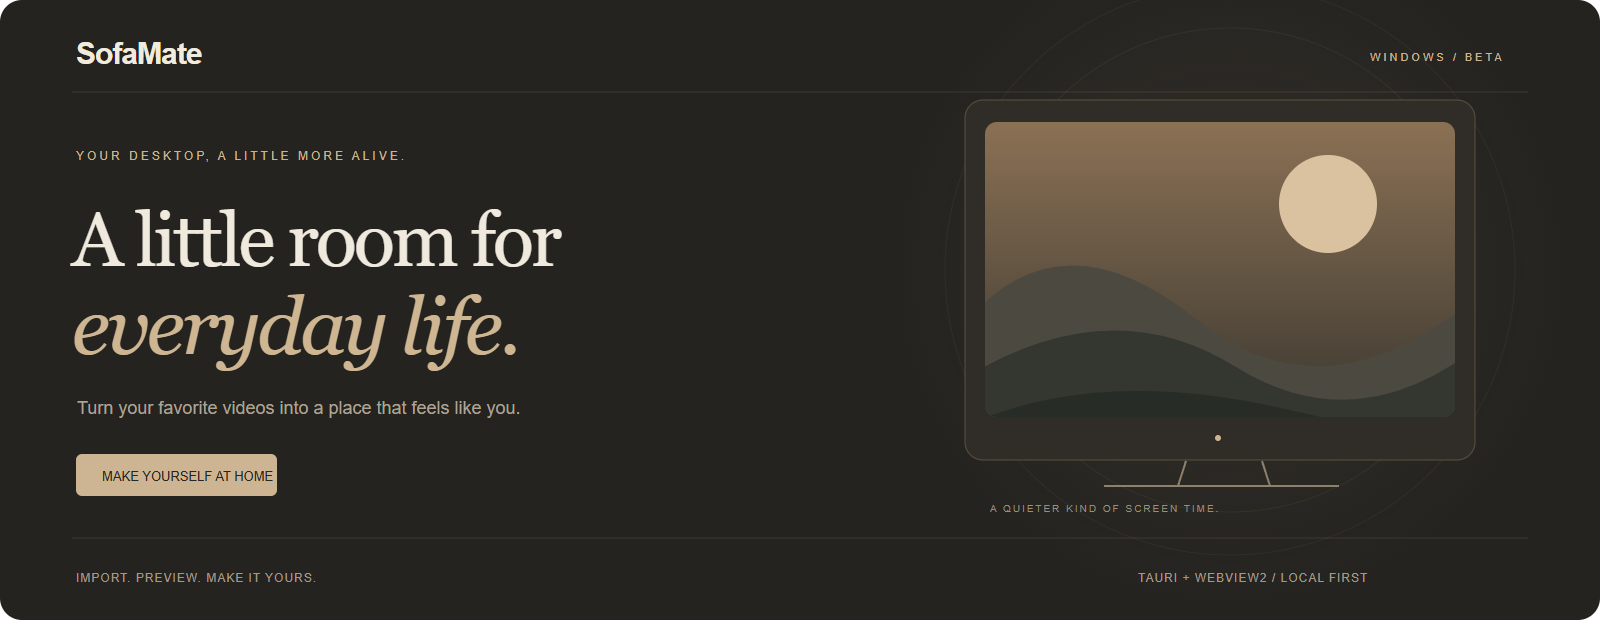
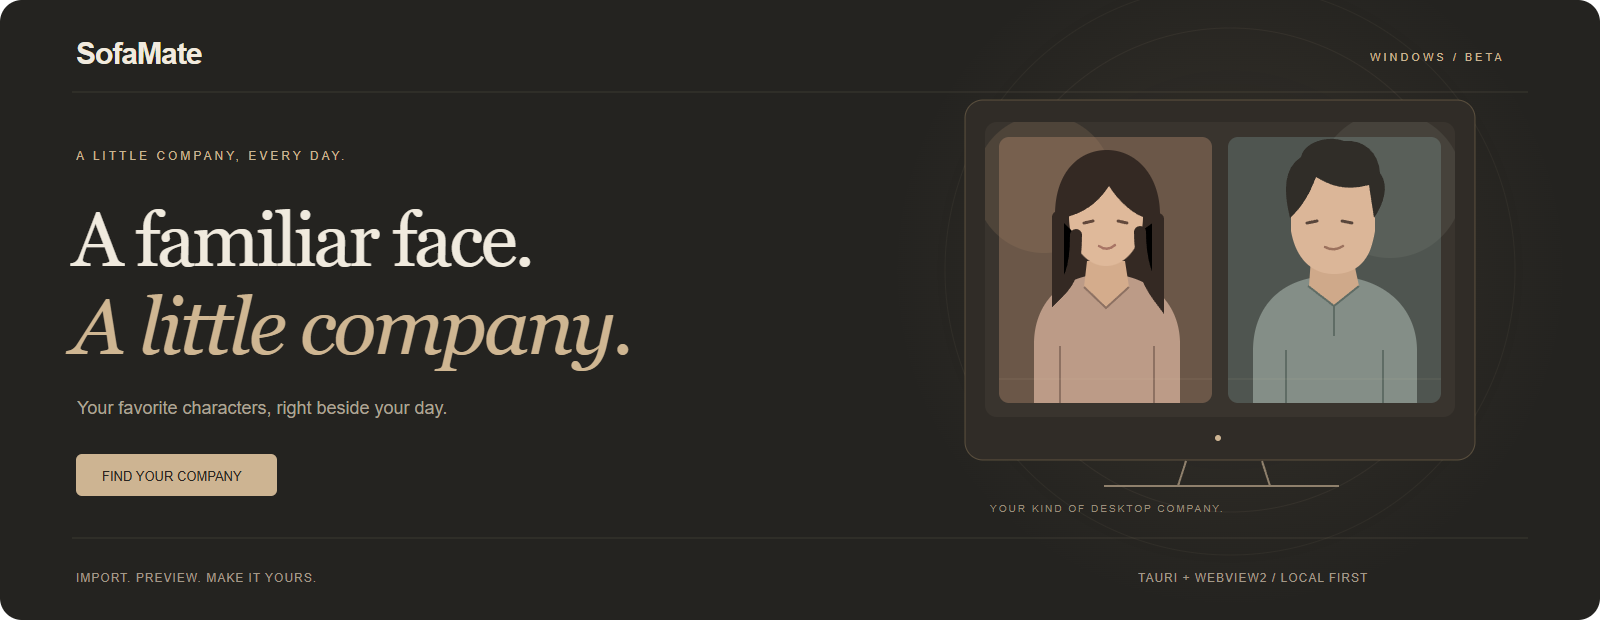
Center SofaMate on companionship and polish sign-in experience

diff --git a/site/index.html b/site/index.html
@@ -1,14 +1,14 @@
 <!doctype html>
 <html lang="zh-CN">
-<head><meta charset="utf-8"><meta name="viewport" content="width=device-width,initial-scale=1"><title>SofaMate — 让桌面，慢下来。</title><meta name="description" content="把喜欢的视频变成 Windows 动态壁纸。在安静、轻巧的 SofaMate 里预览、收藏，分享属于你的日常。"><meta property="og:title" content="SofaMate — A little room for everyday life."><meta property="og:description" content="轻巧的 Windows 视频壁纸客户端。导入、预览、分享，给桌面留一点生活。"><meta property="og:image" content="https://sofamate.aveniqa.com/assets/social-card.png"><meta name="theme-color" content="#22211f"><link rel="icon" href="/assets/icon.png"><link rel="stylesheet" href="/style.css"><script defer src="/app.js"></script></head>
+<head><meta charset="utf-8"><meta name="viewport" content="width=device-width,initial-scale=1"><title>SofaMate — 打开桌面，就有陪伴。</title><meta name="description" content="把喜欢的角色留在 Windows 桌面。导入人物视频，陪你工作、学习和独处的时光。SofaMate，让桌面多一份陪伴。"><meta property="og:title" content="SofaMate — A little company, every day."><meta property="og:description" content="喜欢的她，也可以是喜欢的他。把人物视频设为桌面壁纸，让独处的日常多一份陪伴。"><meta property="og:image" content="https://sofamate.aveniqa.com/assets/social-card.png?v=companionship"><meta name="theme-color" content="#22211f"><link rel="icon" href="/assets/icon.png"><link rel="stylesheet" href="/style.css"><script defer src="/app.js"></script></head>
 <body>
 <header class="site-header wrap"><a class="wordmark" href="/" aria-label="SofaMate 首页"><img src="/assets/icon.png" width="30" height="30" alt="">SofaMate<span class="beta">BETA</span></a><nav aria-label="主导航"><a href="/#experience">体验</a><a href="/market">分享市场</a><a href="https://github.com/UncleK/SofaMate" target="_blank" rel="noopener">GitHub ↗</a></nav><a class="nav-account" href="/login">登录 / 注册 <span>↗</span></a></header>
 <main>
-<section class="hero wrap"><div class="hero-copy"><p class="eyebrow"><span class="live-dot"></span> YOUR DESKTOP, A LITTLE MORE ALIVE.</p><h1>让桌面，<br><em>慢下来。</em></h1><p class="hero-description">一盏晚灯，一段日常，一帧喜欢的风景。<br>把视频留在桌面，让陪伴自然发生。</p><div class="hero-actions"><a class="button primary" href="https://github.com/UncleK/SofaMate/releases/latest/download/SofaMate-Windows-x64.zip"><svg viewBox="0 0 24 24" aria-hidden="true"><path d="M12 3v12m-5-5 5 5 5-5M4 16v5h16v-5"/></svg>下载 Windows 版 <span>↓</span></a><a class="text-link" href="#experience">看看它的样子 <span>↘</span></a></div><p class="hero-footnote">Windows 10 / 11 · 免安装 · 默认静音</p></div><div class="hero-visual"><div class="orbit orbit-one"></div><div class="orbit orbit-two"></div><div class="hero-caption"><span>01 / A QUIET EVENING</span><span>留一点时间，给生活。</span></div><figure class="app-frame"><img src="/assets/client-featured.png" width="1280" height="800" alt="SofaMate 精选主题的真实客户端界面，展示夜间客厅九宫格预览" fetchpriority="high"></figure><div class="visual-bottom"><span class="tiny-cross">＋</span><span>真实客户端截图 · 柔和深色</span><span class="frame-number">SOFA / MATE</span></div></div></section>
-<section class="facts wrap" aria-label="产品特点"><div><span>01</span><strong>自己的视频，自己的桌面。</strong><p>导入 MP4，即可设为动态壁纸</p></div><div><span>02</span><strong>先看九格，再留下一段。</strong><p>客户端自动生成九宫格预览</p></div><div><span>03</span><strong>喜欢的画面，可以分享。</strong><p>登录发布，下载后离线使用</p></div></section>
-<section class="experience wrap" id="experience"><div class="section-heading"><p class="eyebrow">A LITTLE LESS NOISE.</p><h2>简单的操作。<br><span>刚刚好的陪伴。</span></h2><p>播放留在桌面，选择留在手边。<br>把复杂的事情，留给 SofaMate。</p></div><div class="feature-grid"><article class="feature feature-wide"><div class="feature-top"><span class="feature-index">01 / YOUR COLLECTION</span><h3>把喜欢的画面，收在一起。</h3><p>本机视频与已安装主题，一眼就能找到。搜索、左右切换，再决定今天的桌面。</p></div><div class="screenshot-mat"><img src="/assets/client-library.png" width="1280" height="800" loading="lazy" alt="我的壁纸实机界面，可搜索、浏览与预览本机视频"></div></article><article class="feature feature-control"><span class="feature-index">02 / UNDER YOUR CONTROL</span><h3>安静开始。<br>随时停下。</h3><p>窗口里的预览与桌面播放各自独立。暂停稍歇，停止则释放桌面播放器资源。</p><div class="control-mat"><img src="/assets/client-controls.png" width="472" height="352" loading="lazy" alt="壁纸控制菜单，包含暂停、停止与音量"></div><div class="quiet-note"><span>↘</span><p>关闭面板，壁纸继续。<br>双击托盘，随时回来。</p></div></article></div></section>
-<section class="community-story wrap"><div class="community-title"><p class="eyebrow">GOOD MOMENTS TRAVEL.</p><h2>你的日常，<br>也许是别人的<span>心动。</span></h2><p>九宫格在你的电脑上生成。只有点击分享，<br>视频才会上传到社区。每一份分享都有自己的主人。</p><a class="text-link" href="/market">去分享市场逛逛 <span>↗</span></a></div><div class="flow-art"><img src="/assets/sharing-flow.svg" width="680" height="400" alt="从本机视频到九宫格预览，再分享到社区的流程插画" loading="lazy"></div></section>
-<section class="details-section wrap"><div><p class="eyebrow">SMALL BY DESIGN.</p><h2>轻一点，<br>陪伴久一点。</h2></div><div class="detail-list"><div><h3>不用为壁纸，再装一个大家伙。</h3><p>Tauri + 系统 WebView2。视频预览使用系统解码能力，客户端不捆绑 FFmpeg。</p></div><div><h3>离线，也有喜欢的画面。</h3><p>本机导入不需要账号。下载完成后，桌面播放不依赖服务器。</p></div><div><h3>用熟悉的语言，开始。</h3><p>客户端支持简体中文、English、日本語。邮箱验证码、GitHub 或 Google 均可登录。</p></div></div></section>
-<section class="download-section wrap" id="download"><p class="eyebrow">MAKE YOURSELF AT HOME.</p><h2>给桌面，<em>留一点生活。</em></h2><p>准备好一段喜欢的视频。剩下的，交给 SofaMate。</p><a class="button primary" href="https://github.com/UncleK/SofaMate/releases/latest/download/SofaMate-Windows-x64.zip">下载 SofaMate <span>↓</span></a><p class="download-note">Windows x64 · 公开测试版 · 需要 WebView2 Runtime<br>支持 H.264 / AAC MP4，单视频最大 1 GiB。当前支持单主屏。</p></section>
-</main><footer class="site-footer wrap"><a class="wordmark" href="/">SofaMate</a><span>A little room for everyday life.</span><div><a href="/privacy">隐私说明</a><a href="https://github.com/UncleK/SofaMate/issues">反馈</a><a href="https://github.com/UncleK/SofaMate">GitHub ↗</a></div></footer>
+<section class="hero wrap"><div class="hero-copy"><p class="eyebrow"><span class="live-dot"></span> A LITTLE COMPANY, EVERY DAY.</p><h1>打开桌面，<br><em>就有陪伴。</em></h1><p class="hero-description">把喜欢的身影留在桌面。<br>工作、学习，或一个人待着时，多一份陪伴。</p><div class="hero-actions"><a class="button primary" href="https://github.com/UncleK/SofaMate/releases/latest/download/SofaMate-Windows-x64.zip"><svg viewBox="0 0 24 24" aria-hidden="true"><path d="M12 3v12m-5-5 5 5 5-5M4 16v5h16v-5"/></svg>下载 Windows 版 <span>↓</span></a><a class="text-link" href="#experience">看看它的样子 <span>↘</span></a></div><p class="hero-footnote">Windows 10 / 11 · 免安装 · 默认静音</p></div><div class="hero-visual"><div class="orbit orbit-one"></div><div class="orbit orbit-two"></div><div class="hero-caption"><span>01 / SOMEONE BY YOUR SIDE</span><span>喜欢的身影，就在身边。</span></div><figure class="app-frame"><img src="/assets/client-featured.png" width="1280" height="800" alt="SofaMate 精选主题的真实客户端界面，展示夜间客厅九宫格预览" fetchpriority="high"></figure><div class="visual-bottom"><span class="tiny-cross">＋</span><span>真实客户端截图 · 柔和深色</span><span class="frame-number">SOFA / MATE</span></div></div></section>
+<section class="facts wrap" aria-label="产品特点"><div><span>01</span><strong>喜欢的角色，陪在桌面。</strong><p>导入 MP4，即可设为动态壁纸</p></div><div><span>02</span><strong>每一个瞬间，都想多看一眼。</strong><p>客户端自动生成九宫格预览</p></div><div><span>03</span><strong>把喜欢，也分享给别人。</strong><p>登录发布，下载后离线使用</p></div></section>
+<section class="experience wrap" id="experience"><div class="section-heading"><p class="eyebrow">YOUR KIND OF COMPANY.</p><h2>一个人，也可以<br><span>有陪伴的感觉。</span></h2><p>喜欢她的温柔，也可以喜欢他的笑容。<br>选择让你心动的角色，陪你度过自己的时间。</p></div><div class="feature-grid"><article class="feature feature-wide"><div class="feature-top"><span class="feature-index">01 / YOUR COLLECTION</span><h3>今天想见谁，由你决定。</h3><p>把喜欢的人物视频收在一起。搜索、左右切换，找到此刻想要的陪伴。</p></div><div class="screenshot-mat"><img src="/assets/client-library.png" width="1280" height="800" loading="lazy" alt="我的壁纸实机界面，可搜索、浏览与预览本机视频"></div></article><article class="feature feature-control"><span class="feature-index">02 / UNDER YOUR CONTROL</span><h3>陪在身边。<br>由你安排。</h3><p>先在窗口里看看，再把喜欢的角色设为壁纸。想暂停、继续或结束陪伴，随时都由你决定。</p><div class="control-mat"><img src="/assets/client-controls.png" width="472" height="352" loading="lazy" alt="壁纸控制菜单，包含暂停、停止与音量"></div><div class="quiet-note"><span>↘</span><p>关闭面板，壁纸继续。<br>双击托盘，随时回来。</p></div></article></div></section>
+<section class="community-story wrap"><div class="community-title"><p class="eyebrow">FAVORITES WORTH SHARING.</p><h2>你的喜欢，<br>也许是别人的<span>心动。</span></h2><p>分享你创作的人物视频，发现更多喜欢的角色。<br>预览九宫格，下载到本机，把这份陪伴留在桌面。</p><a class="text-link" href="/market">去分享市场逛逛 <span>↗</span></a></div><div class="flow-art"><img src="/assets/sharing-flow.svg?v=companionship" width="680" height="400" alt="从本机视频到九宫格预览，再分享到社区的流程插画" loading="lazy"></div></section>
+<section class="details-section wrap"><div><p class="eyebrow">SMALL BY DESIGN.</p><h2>轻巧一点，<br>陪你久一点。</h2></div><div class="detail-list"><div><h3>小小的客户端，装下你的喜欢。</h3><p>下载包不到 2 MB，免安装即可使用。九宫格在本机生成，把更多空间留给喜欢的视频。</p></div><div><h3>不联网，陪伴也在。</h3><p>本机导入不需要账号。下载完成后，桌面播放不依赖服务器。</p></div><div><h3>用熟悉的语言，遇见喜欢。</h3><p>客户端支持简体中文、English、日本語。邮箱验证码、GitHub 或 Google 均可登录。</p></div></div></section>
+<section class="download-section wrap" id="download"><p class="eyebrow">BRING YOUR FAVORITE FACE HOME.</p><h2>让喜欢的身影，<em>出现在你的桌面。</em></h2><p>从一段喜欢的人物视频开始，让独处的时光多一份陪伴。</p><a class="button primary" href="https://github.com/UncleK/SofaMate/releases/latest/download/SofaMate-Windows-x64.zip">下载 SofaMate <span>↓</span></a><p class="download-note">Windows x64 · 公开测试版 · 需要 WebView2 Runtime<br>支持 H.264 / AAC MP4，单视频最大 1 GiB。当前支持单主屏。</p></section>
+</main><footer class="site-footer wrap"><a class="wordmark" href="/">SofaMate</a><span>A little company, every day.</span><div><a href="/privacy">隐私说明</a><a href="https://github.com/UncleK/SofaMate/issues">反馈</a><a href="https://github.com/UncleK/SofaMate">GitHub ↗</a></div></footer>
 </body></html>

diff --git a/site/login.html b/site/login.html
@@ -1,1 +1,1 @@
-<!doctype html><html lang="zh-CN"><head><meta charset="utf-8"><meta name="viewport" content="width=device-width,initial-scale=1"><title>登录 · SofaMate</title><meta name="robots" content="noindex"><meta name="theme-color" content="#22211f"><link rel="icon" href="/assets/icon.png"><link rel="stylesheet" href="/style.css"><script defer src="/app.js"></script></head><body><header class="site-header wrap"><a class="wordmark" href="/"><img src="/assets/icon.png" width="30" height="30" alt="">SofaMate<span class="beta">BETA</span></a><nav><a href="/market">分享市场</a><a href="https://github.com/UncleK/SofaMate">GitHub ↗</a></nav><a class="nav-account" href="/">返回首页 ↗</a></header><main class="subpage wrap"><div class="auth-layout"><div class="auth-intro"><p class="eyebrow">A PLACE FOR YOUR MOMENTS.</p><h1>喜欢的画面，<br><span>从这里分享。</span></h1><p>登录后发布和管理你的壁纸。<br>浏览、下载和本机播放，无需登录。</p><div class="auth-decoration"></div><p>邮箱验证码 / GitHub / Google<br>没有密码负担，也没有复杂的开始。</p></div><section class="auth-card" aria-labelledby="auth-title"><h2 id="auth-title">欢迎来到 SofaMate</h2><div id="sign-in"><p>首次验证邮箱将自动创建账号。</p><div class="oauth-buttons"><a class="button" id="github-login" href="/v1/auth/oauth/github/start"><span aria-hidden="true">⌘</span>GitHub</a><a class="button" id="google-login" href="/v1/auth/oauth/google/start"><strong aria-hidden="true">G</strong>Google</a></div><div class="divider">或使用邮箱验证码</div><form id="email-form"><label>邮箱地址<input id="email" type="email" maxlength="254" required autocomplete="email" placeholder="you@example.com"></label><label>公开昵称<input id="name" maxlength="40" autocomplete="nickname" placeholder="你想被怎样称呼" required></label><button class="button primary" id="send-code">获取验证码 <span>→</span></button></form><form id="code-form" hidden><label>6 位验证码<input id="code" type="text" inputmode="numeric" pattern="[0-9]{6}" minlength="6" maxlength="6" required autocomplete="one-time-code" placeholder="000000"></label><button class="button primary">验证并继续 <span>→</span></button><button class="auth-secondary" type="button" id="resend-code">重新发送</button></form><p>继续即表示你了解我们的<a href="/privacy">隐私说明</a>。<br>我们仅用邮箱完成身份验证，不发送营销邮件。</p></div><div id="signed-in" hidden><p class="auth-user" id="user-name"></p><p id="user-email"></p><div id="pairing" hidden><p>请核对客户端显示的配对码：</p><div class="auth-code" id="pair-code"></div><button class="button primary" id="approve-desktop">连接 SofaMate 客户端</button><p>仅连接你自己刚刚打开的客户端。</p></div><div id="account-actions"><div class="account-links"><a id="link-github" href="/v1/auth/oauth/github/start?link=1">绑定 GitHub</a><a id="link-google" href="/v1/auth/oauth/google/start?link=1">绑定 Google</a></div><a class="button primary" href="/market">浏览分享市场 ↗</a></div><button class="auth-secondary" id="sign-out">退出登录</button></div><p class="auth-status" id="auth-status" role="status" aria-live="polite"></p></section></div></main><footer class="site-footer wrap"><a class="wordmark" href="/">SofaMate</a><span>A little room for everyday life.</span><div><a href="/privacy">隐私说明</a><a href="https://github.com/UncleK/SofaMate/issues">反馈</a></div></footer></body></html>
+<!doctype html><html lang="zh-CN"><head><meta charset="utf-8"><meta name="viewport" content="width=device-width,initial-scale=1"><title>登录 · SofaMate</title><meta name="robots" content="noindex"><meta name="theme-color" content="#22211f"><link rel="icon" href="/assets/icon.png"><link rel="stylesheet" href="/style.css"><script defer src="/app.js"></script></head><body><header class="site-header wrap"><a class="wordmark" href="/"><img src="/assets/icon.png" width="30" height="30" alt="">SofaMate<span class="beta">BETA</span></a><nav><a href="/market">分享市场</a><a href="https://github.com/UncleK/SofaMate">GitHub ↗</a></nav><a class="nav-account" href="/">返回首页 ↗</a></header><main class="subpage wrap"><div class="auth-layout"><div class="auth-intro"><p class="eyebrow">SHARE YOUR KIND OF COMPANY.</p><h1>从这里，<br><span>遇见喜欢的陪伴。</span></h1><p>发现你喜欢的桌面角色，也分享你创作的陪伴视频。<br>浏览和下载无需登录；登录后即可发布和管理作品。</p><div class="auth-decoration"></div><p>邮箱验证码 / GitHub / Google<br>没有密码负担，也没有复杂的开始。</p></div><section class="auth-card" aria-labelledby="auth-title"><h2 id="auth-title">欢迎来到 SofaMate</h2><div id="sign-in"><p>首次验证邮箱将自动创建账号。</p><div class="oauth-buttons"><a class="button" id="github-login" href="/v1/auth/oauth/github/start"><img src="/assets/github-mark.svg" width="22" height="22" alt="">使用 GitHub 登录</a><a class="button" id="google-login" href="/v1/auth/oauth/google/start"><img src="/assets/google-mark.png" width="22" height="22" alt="">使用 Google 登录</a></div><div class="divider">或使用邮箱验证码</div><form id="email-form"><label>邮箱地址<input id="email" type="email" maxlength="254" required autocomplete="email" placeholder="you@example.com"></label><label>公开昵称<input id="name" maxlength="40" autocomplete="nickname" placeholder="你想被怎样称呼" required></label><button class="button primary" id="send-code">获取验证码 <span>→</span></button></form><form id="code-form" hidden><label>6 位验证码<input id="code" type="text" inputmode="numeric" pattern="[0-9]{6}" minlength="6" maxlength="6" required autocomplete="one-time-code" placeholder="000000"></label><button class="button primary">验证并继续 <span>→</span></button><div class="code-actions"><button class="auth-secondary" type="button" id="resend-code">重新发送</button><button class="auth-secondary" type="button" id="change-email">更换邮箱</button></div></form><p>继续即表示你了解我们的<a href="/privacy">隐私说明</a>。<br>我们仅用邮箱完成身份验证，不发送营销邮件。</p></div><div id="signed-in" hidden><p class="auth-user" id="user-name"></p><p id="user-email"></p><div id="pairing" hidden><p>请核对客户端显示的配对码：</p><div class="auth-code" id="pair-code"></div><button class="button primary" id="approve-desktop">连接 SofaMate 客户端</button><p>仅连接你自己刚刚打开的客户端。</p></div><div id="account-actions"><div class="account-links"><a id="link-github" href="/v1/auth/oauth/github/start?link=1">绑定 GitHub</a><a id="link-google" href="/v1/auth/oauth/google/start?link=1">绑定 Google</a></div><a class="button primary" href="/market">浏览分享市场 ↗</a></div><button class="auth-secondary" id="sign-out">退出登录</button></div><p class="auth-status" id="auth-status" role="status" aria-live="polite"></p></section></div></main><footer class="site-footer wrap"><a class="wordmark" href="/">SofaMate</a><span>A little company, every day.</span><div><a href="/privacy">隐私说明</a><a href="https://github.com/UncleK/SofaMate/issues">反馈</a></div></footer></body></html>

diff --git a/site/privacy.html b/site/privacy.html
@@ -1,1 +1,1 @@
-<!doctype html><html lang="zh-CN"><head><meta charset="utf-8"><meta name="viewport" content="width=device-width,initial-scale=1"><title>隐私说明 · SofaMate</title><link rel="icon" href="/assets/icon.png"><link rel="stylesheet" href="/style.css"></head><body><header class="site-header wrap"><a class="wordmark" href="/">SofaMate</a><a class="nav-account" href="/">返回首页 ↗</a></header><main class="subpage wrap prose"><p class="eyebrow">YOUR MOMENTS ARE YOURS.</p><h1>隐私与分享说明</h1><p>更新于 2026 年 9 月 20 日。本说明描述 SofaMate 公开测试版的实际数据处理方式。</p><h2>本机视频</h2><p>导入的视频复制到你的本机壁纸库。九宫格预览在你的电脑上生成。导入、预览和设为壁纸不会自动上传文件，只有你主动点击分享才会上传视频、预览图、标题和简介。</p><h2>账号与登录</h2><p>邮箱验证码用于注册和登录，通过 Resend 发送。我们保存邮箱、公开昵称、账号标识、登录方式及有期限的会话。验证码有次数限制，10 分钟失效。GitHub 和 Google 登录仅申请身份与邮箱信息，不申请仓库、云盘或其他业务数据权限。第三方身份不会仅因邮箱相同而自动合并；你可以先登录，再主动绑定。</p><h2>登录会话</h2><p>网站使用安全、HttpOnly 的必要登录 Cookie，不使用广告或跨站分析 Cookie。桌面客户端的登录凭据使用 Windows 用户级加密保存，不进入渲染页面。退出登录会撤销当前会话。</p><h2>公开分享</h2><p>发布后，昵称、标题、简介、视频和预览图可公开浏览与下载。邮箱不会显示在作品页面。请仅分享你有权公开分发的内容。你可以撤回自己的作品；撤回会关闭服务器上的公开访问，其他人已下载的副本仍由对方持有。</p><h2>容量与管理</h2><p>测试版限制单视频最大 1 GiB、每账号分享总容量 2 GiB（含预览预留空间），最多 50 条。未完成上传的草稿在过期后清理。管理员可下架作品、停用滥用账号。服务为运行和故障诊断保留必要的访问日志，不记录验证码、登录凭据或完整 OAuth 回调参数。</p><h2>联系我们</h2><p>功能问题、内容投诉或账号数据删除请求，请通过 <a href="https://github.com/UncleK/SofaMate/issues">GitHub Issues</a> 联系维护者。公开留言不要包含邮箱验证码、登录凭据或其他私人信息；涉及账号归属的请求需先验证身份。</p></main><footer class="site-footer wrap"><a class="wordmark" href="/">SofaMate</a><span>A little room for everyday life.</span></footer></body></html>
+<!doctype html><html lang="zh-CN"><head><meta charset="utf-8"><meta name="viewport" content="width=device-width,initial-scale=1"><title>隐私说明 · SofaMate</title><link rel="icon" href="/assets/icon.png"><link rel="stylesheet" href="/style.css"></head><body><header class="site-header wrap"><a class="wordmark" href="/">SofaMate</a><a class="nav-account" href="/">返回首页 ↗</a></header><main class="subpage wrap prose"><p class="eyebrow">YOUR MOMENTS ARE YOURS.</p><h1>隐私与分享说明</h1><p>更新于 2026 年 9 月 20 日。本说明描述 SofaMate 公开测试版的实际数据处理方式。</p><h2>本机视频</h2><p>导入的视频复制到你的本机壁纸库。九宫格预览在你的电脑上生成。导入、预览和设为壁纸不会自动上传文件，只有你主动点击分享才会上传视频、预览图、标题和简介。</p><h2>账号与登录</h2><p>邮箱验证码用于注册和登录，通过 Resend 发送。我们保存邮箱、公开昵称、账号标识、登录方式及有期限的会话。验证码有次数限制，10 分钟失效。GitHub 和 Google 登录仅申请身份与邮箱信息，不申请仓库、云盘或其他业务数据权限。第三方身份不会仅因邮箱相同而自动合并；你可以先登录，再主动绑定。</p><h2>登录会话</h2><p>网站使用安全、HttpOnly 的必要登录 Cookie，不使用广告或跨站分析 Cookie。桌面客户端的登录凭据使用 Windows 用户级加密保存，不进入渲染页面。退出登录会撤销当前会话。</p><h2>公开分享</h2><p>发布后，昵称、标题、简介、视频和预览图可公开浏览与下载。邮箱不会显示在作品页面。请仅分享你有权公开分发的内容。你可以撤回自己的作品；撤回会关闭服务器上的公开访问，其他人已下载的副本仍由对方持有。</p><h2>容量与管理</h2><p>测试版限制单视频最大 1 GiB、每账号分享总容量 2 GiB（含预览预留空间），最多 50 条。未完成上传的草稿在过期后清理。管理员可下架作品、停用滥用账号。服务为运行和故障诊断保留必要的访问日志，不记录验证码、登录凭据或完整 OAuth 回调参数。</p><h2>联系我们</h2><p>功能问题、内容投诉或账号数据删除请求，请通过 <a href="https://github.com/UncleK/SofaMate/issues">GitHub Issues</a> 联系维护者。公开留言不要包含邮箱验证码、登录凭据或其他私人信息；涉及账号归属的请求需先验证身份。</p></main><footer class="site-footer wrap"><a class="wordmark" href="/">SofaMate</a><span>A little company, every day.</span></footer></body></html>

diff --git a/site/app.js b/site/app.js
@@ -1,6 +1,7 @@
 const $ = id => document.getElementById(id);
 async function api(path, body) {
   const response = await fetch(path, { method: body === undefined ? 'GET' : 'POST', credentials: 'same-origin', headers: body === undefined ? {} : { 'Content-Type': 'application/json' }, body: body === undefined ? undefined : JSON.stringify(body), redirect: 'error' });
+  if (!response.headers.get('content-type')?.includes('application/json')) throw new Error(response.status === 429 ? '操作太频繁，请稍后再试。' : '服务暂时不可用，请稍后重试。');
   const value = await response.json();
   if (!response.ok) throw new Error(value.error || '暂时无法连接，请稍后重试。');
   return value;
@@ -13,13 +14,13 @@ if ($('email-form')) {
   const run = async fn => { try { await fn(); } catch (error) { status(error.message, true); } };
   function updateResend() { const seconds = Math.max(0, Math.ceil((resendAt - Date.now()) / 1000)); $('resend-code').disabled = seconds > 0; $('resend-code').textContent = seconds ? `${seconds} 秒后重新发送` : '重新发送'; }
   async function send() {
-    $('send-code').disabled = true; status('正在发送验证码…');
+    $('send-code').disabled = true; $('change-email').disabled = true; status('正在发送验证码…');
     try {
       const result = await api('/v1/auth/email/start', { email: $('email').value, name: $('name').value });
       challengeId = result.challengeId; resendAt = Date.now() + result.retryAfter * 1000;
       $('email-form').hidden = true; $('code-form').hidden = false; $('code').focus(); updateResend();
       status('验证码已发送，请查看邮箱。10 分钟内有效。');
-    } finally { $('send-code').disabled = false; }
+    } finally { $('send-code').disabled = false; $('change-email').disabled = false; }
   }
   async function showUser(user) {
     $('sign-in').hidden = true; $('signed-in').hidden = false;
@@ -32,11 +33,15 @@ if ($('email-form')) {
   }
   $('email-form').addEventListener('submit', event => { event.preventDefault(); void run(send); });
   $('resend-code').onclick = () => void run(send);
+  $('change-email').onclick = () => {
+    challengeId = ''; $('code').value = ''; $('code-form').hidden = true;
+    $('email-form').hidden = false; status(''); $('email').focus();
+  };
   setInterval(updateResend, 1000);
   $('code-form').addEventListener('submit', event => { event.preventDefault(); void run(async () => {
-    const button = $('code-form').querySelector('button'); button.disabled = true;
+    const button = $('code-form').querySelector('button'); button.disabled = true; $('change-email').disabled = true;
     try { const result = await api('/v1/auth/email/verify', { challengeId, code: $('code').value }); await showUser(result.user); }
-    finally { button.disabled = false; }
+    finally { button.disabled = false; $('change-email').disabled = false; }
   }); });
   $('approve-desktop').onclick = () => void run(async () => {
     $('approve-desktop').disabled = true;
@@ -78,10 +83,16 @@ if ($('market-grid')) {
       if (!more) $('market-grid').replaceChildren();
       data.items.forEach(item => $('market-grid').append(card(item))); next = data.nextOffset;
       $('market-more').hidden = next === null; $('market-empty').hidden = data.total > 0;
+      const searching = !!$('market-query').value.trim();
+      $('market-empty').querySelector('h2').textContent = searching ? '没有找到匹配的壁纸。' : '你喜欢的角色，等你来分享。';
+      $('market-empty').querySelector('p').textContent = searching ? '试试其他名字，或清空搜索看看全部作品。' : '在 SofaMate 中导入你创作的视频，登录后点击「分享」。你的作品会出现在这里。';
+      $('market-empty').querySelector('a').hidden = searching;
+      $('market-reset').hidden = !searching;
       $('market-status').textContent = data.total ? `${data.total} 段画面，等你带回桌面。` : '';
     } catch (error) { if (run === generation) $('market-status').textContent = error.message; }
   }
   $('market-search').onsubmit = event => { event.preventDefault(); void load(); };
   $('market-more').onclick = () => void load(true);
+  $('market-reset').onclick = () => { $('market-query').value = ''; void load(); };
   void load();
 }

diff --git a/site/market.html b/site/market.html
@@ -1,1 +1,1 @@
-<!doctype html><html lang="zh-CN"><head><meta charset="utf-8"><meta name="viewport" content="width=device-width,initial-scale=1"><title>分享市场 · SofaMate</title><meta name="description" content="发现社区分享的视频壁纸。九宫格预览，下载后离线使用。"><meta name="theme-color" content="#22211f"><link rel="icon" href="/assets/icon.png"><link rel="stylesheet" href="/style.css"><script defer src="/app.js"></script></head><body><header class="site-header wrap"><a class="wordmark" href="/"><img src="/assets/icon.png" width="30" height="30" alt="">SofaMate<span class="beta">BETA</span></a><nav><a href="/#experience">体验</a><a href="/market">分享市场</a><a href="https://github.com/UncleK/SofaMate">GitHub ↗</a></nav><a class="nav-account" href="/login">登录 / 注册 ↗</a></header><main class="subpage wrap"><div class="subpage-heading"><div><p class="eyebrow">GOOD MOMENTS, SHARED.</p><h1>发现一段，喜欢的画面。</h1><p class="subpage-lead">从别人的日常里，找到属于你的桌面。<br>免费浏览与下载，在客户端登录后分享。</p></div><form class="search-form" id="market-search"><input type="search" id="market-query" placeholder="搜索壁纸、作者" aria-label="搜索壁纸、作者" maxlength="100"><button class="button">搜索 ↗</button></form></div><p id="market-status" class="subpage-lead" role="status"></p><div class="market-grid" id="market-grid"></div><div class="market-empty" id="market-empty" hidden><h2>第一段喜欢的画面，等你来分享。</h2><p>在 SofaMate 中导入视频，登录后点击「分享」。<br>你的作品会出现在这里。</p><a class="text-link" href="/#download">下载客户端 ↗</a></div><button class="button" id="market-more" hidden>加载更多</button></main><footer class="site-footer wrap"><a class="wordmark" href="/">SofaMate</a><span>A little room for everyday life.</span><div><a href="/privacy">隐私说明</a><a href="https://github.com/UncleK/SofaMate/issues">反馈</a></div></footer></body></html>
+<!doctype html><html lang="zh-CN"><head><meta charset="utf-8"><meta name="viewport" content="width=device-width,initial-scale=1"><title>分享市场 · SofaMate</title><meta name="description" content="发现社区分享的人物视频壁纸，找到喜欢的桌面陪伴。九宫格预览，下载后离线使用。"><meta name="theme-color" content="#22211f"><link rel="icon" href="/assets/icon.png"><link rel="stylesheet" href="/style.css"><script defer src="/app.js"></script></head><body><header class="site-header wrap"><a class="wordmark" href="/"><img src="/assets/icon.png" width="30" height="30" alt="">SofaMate<span class="beta">BETA</span></a><nav><a href="/#experience">体验</a><a href="/market">分享市场</a><a href="https://github.com/UncleK/SofaMate">GitHub ↗</a></nav><a class="nav-account" href="/login">登录 / 注册 ↗</a></header><main class="subpage wrap"><div class="subpage-heading"><div><p class="eyebrow">FIND YOUR KIND OF COMPANY.</p><h1>遇见你喜欢的桌面陪伴。</h1><p class="subpage-lead">喜欢的她、心动的他，或让你感到亲切的角色。<br>免费浏览与下载，在客户端登录后分享。</p></div><form class="search-form" id="market-search"><input type="search" id="market-query" placeholder="搜索壁纸、作者" aria-label="搜索壁纸、作者" maxlength="100"><button class="button">搜索 ↗</button></form></div><p id="market-status" class="subpage-lead" role="status"></p><div class="market-grid" id="market-grid"></div><div class="market-empty" id="market-empty" hidden><h2>你喜欢的角色，等你来分享。</h2><p>在 SofaMate 中导入视频，登录后点击「分享」。<br>你的作品会出现在这里。</p><a class="text-link" href="/#download">下载客户端 ↗</a><button class="button" id="market-reset" hidden>清空搜索</button></div><button class="button" id="market-more" hidden>加载更多</button></main><footer class="site-footer wrap"><a class="wordmark" href="/">SofaMate</a><span>A little company, every day.</span><div><a href="/privacy">隐私说明</a><a href="https://github.com/UncleK/SofaMate/issues">反馈</a></div></footer></body></html>

diff --git a/site/style.css b/site/style.css
@@ -5,3 +5,6 @@
 @media(max-width:1100px){.wrap{padding-left:32px;padding-right:32px}.hero{gap:26px;min-height:550px;grid-template-columns:.9fr 1fr}.hero h1{font-size:62px}.hero-actions{gap:15px}.hero-caption span:last-child{display:none}.facts{gap:20px}.feature-grid{grid-template-columns:1.4fr 1fr}.feature-control{padding:25px}.control-mat{padding:25px 10px}.download-section{margin-left:32px;margin-right:32px}.auth-layout{gap:40px;grid-template-columns:1fr 410px}.auth-intro h1{font-size:42px}}
 @media(max-width:760px){.wrap{padding-left:23px;padding-right:23px}.site-header{height:80px;gap:12px}.wordmark{font-size:22px}.wordmark img{width:25px;height:25px}.beta{display:none}.site-header nav{gap:17px;font-size:11px}.site-header nav a:first-child{display:none}.nav-account{font-size:11px;gap:8px}.hero{display:block;padding-top:48px;padding-bottom:42px}.hero h1{font-size:66px}.hero-description{font-size:13px}.hero .eyebrow{font-size:9px}.hero-visual{padding-top:45px}.hero-caption span:last-child{display:block}.app-frame{transform:none}.facts{grid-template-columns:1fr;gap:26px;padding-top:28px;padding-bottom:28px}.facts>div{padding-left:36px}.facts p{margin-top:8px}.facts strong{font-size:14px}.experience{padding-top:70px;padding-bottom:60px}.section-heading{display:block;margin-bottom:27px}.section-heading h2,h2{font-size:31px}.section-heading>p:last-child{margin-top:20px}.feature-grid{grid-template-columns:1fr;gap:18px}.feature-top{padding:24px}.feature h3{font-size:22px}.screenshot-mat{padding:5px 20px 0}.feature-control{padding:25px}.control-mat{padding:25px 10px;max-width:270px;margin:auto}.feature-control h3 br{display:none}.quiet-note{padding-top:18px}.community-story{grid-template-columns:1fr;gap:25px;padding-bottom:55px}.community-story h2{font-size:32px}.flow-art{margin:0 -8px}.details-section{grid-template-columns:1fr;gap:35px;padding-top:50px;padding-bottom:55px}.details-section h2 br{display:none}.details-section h2{font-size:31px}.download-section{margin:0 20px 45px;padding:43px 22px}.download-section h2{font-size:30px}.download-section h2 em{display:block}.site-footer{flex-wrap:wrap;gap:20px;padding-top:23px}.site-footer>span{font-size:11px}.site-footer>div{width:100%;justify-content:space-between}.subpage{padding-top:35px;padding-bottom:65px}.subpage h1{font-size:36px}.subpage-heading{display:block}.search-form{margin-top:25px}.search-form input{flex:1}.market-grid{grid-template-columns:1fr}.auth-layout{display:block;margin-top:10px}.auth-intro{margin-bottom:35px}.auth-intro h1{font-size:35px}.auth-intro h1 br{display:none}.auth-intro .eyebrow{margin-bottom:20px}.auth-decoration{display:none}.auth-card{padding:25px}.prose h2{font-size:21px}}
 @media(prefers-reduced-motion:reduce){html{scroll-behavior:auto}*{transition:none!important;animation:none!important}}
+
+.oauth-buttons{grid-template-columns:1fr;gap:10px}.oauth-buttons .button{height:46px;font-size:14px;font-weight:500;background:#131314;border-color:#8e918f;border-radius:6px;gap:12px}.oauth-buttons img{width:22px;height:22px;object-fit:contain;flex:none}.oauth-buttons .button:hover{background:#202022}.code-actions{display:flex;justify-content:space-between;gap:16px}.auth-intro h1{line-height:1.3}.auth-intro>p{max-width:460px}.auth-card label{font-size:13px}.auth-secondary:hover{color:var(--text)}
+@media(max-width:760px){.auth-intro h1 br{display:block}}

diff --git a/README.md b/README.md
@@ -1,16 +1,18 @@
-<p align="center"><img src="site/assets/readme-hero.svg" alt="SofaMate — A little room for everyday life." width="100%"></p>
+<p align="center"><img src="site/assets/readme-hero.svg" alt="SofaMate — A little company, every day." width="100%"></p>
 
-<p align="center"><b>A quiet home for your favorite moving moments.</b><br>Lightweight video wallpapers for Windows. Import, preview, keep, and share.</p>
+<p align="center"><b>A familiar face. A little company.</b><br>Keep your favorite characters on your Windows desktop, through work, study and time on your own.</p>
 
 <p align="center"><a href="https://sofamate.aveniqa.com">Website</a> · <a href="https://github.com/UncleK/SofaMate/releases/latest">Download for Windows</a> · <a href="https://sofamate.aveniqa.com/market">Community</a> · <a href="README.zh-CN.md">简体中文</a></p>
 
 <p align="center"><img alt="Windows 10 and 11" src="https://img.shields.io/badge/Windows-10%20%2F%2011-302c27?style=flat-square&labelColor=242320"> <img alt="Tauri and WebView2" src="https://img.shields.io/badge/Tauri-WebView2-cdb391?style=flat-square&labelColor=242320"> <img alt="Public beta" src="https://img.shields.io/badge/status-public%20beta-cdb391?style=flat-square&labelColor=242320"></p>
 
-## Make yourself at home
+## Your kind of company
 
 ![SofaMate featured scene — real Windows client](site/assets/client-featured.png)
 
-Bring an MP4 into SofaMate and make it your wallpaper. A nine-frame preview helps you see the whole mood before you press play. The soft dark interface stays out of the way; the wallpaper lives behind your desktop icons.
+A familiar smile, a favorite character, a face you are happy to see. SofaMate turns character videos into desktop wallpapers, bringing a sense of company to work, study and time on your own. Choose the companion you like.
+
+Import an MP4, browse its nine-frame preview and set it behind your desktop icons. Your collection stays local, ready whenever you want a little company.
 
 | Your collection | Your controls | Your community |
 | --- | --- | --- |
@@ -21,7 +23,7 @@ Bring an MP4 into SofaMate and make it your wallpaper. A nine-frame preview help
 ## Small by design
 
 - **Tauri + system WebView2.** No bundled Chromium, Node.js, or FFmpeg in the desktop download.
-- **Quiet on startup.** Audio starts muted. Stopping destroys the desktop player; closing the panel keeps the wallpaper running.
+- **Muted on startup.** Audio starts muted. Stopping destroys the desktop player; closing the panel keeps the wallpaper running.
 - **Local first.** Import and playback work without an account. Previews are generated on your computer.
 - **Familiar sign-in.** Email codes, GitHub, and Google use your system browser. Windows protects the desktop session with DPAPI.
 - **Three languages.** 简体中文 · English · 日本語.
@@ -65,4 +67,4 @@ SofaMate is in public beta. Multi-monitor playback, automatic video conversion, 
 
 Questions and reproducible bugs are welcome in [Issues](https://github.com/UncleK/SofaMate/issues). Please keep private email addresses, tokens and local filesystem paths out of public reports. See [third-party notices](THIRD_PARTY_NOTICES.md). A license for SofaMate source and demo artwork has not yet been designated.
 
-<p align="center"><sub>Made for quieter desktops. Give your day a little room.</sub></p>
+<p align="center"><sub>Your favorite characters. A little company, every day.</sub></p>

diff --git a/README.zh-CN.md b/README.zh-CN.md
@@ -1,14 +1,16 @@
 <p align="center"><img src="site/assets/readme-hero.svg" alt="SofaMate" width="100%"></p>
 
-<p align="center"><b>让桌面，慢下来。</b><br>轻巧的 Windows 视频壁纸客户端。导入、预览、收藏，分享属于你的日常。</p>
+<p align="center"><b>打开桌面，就有陪伴。</b><br>把喜欢的角色留在 Windows 桌面，陪你工作、学习和独处的时光。</p>
 
 <p align="center"><a href="https://sofamate.aveniqa.com">官网</a> · <a href="https://github.com/UncleK/SofaMate/releases/latest">下载</a> · <a href="https://sofamate.aveniqa.com/market">分享市场</a> · <a href="README.md">English</a></p>
 
 ![精选主题的真实 Windows 客户端截图](site/assets/client-featured.png)
 
-## 刚刚好的陪伴
+## 你喜欢的桌面陪伴
 
-导入喜欢的 MP4，客户端自动生成九宫格预览。点击「设为壁纸」，画面便留在桌面图标后方。本机视频与已安装主题统一收在「我的壁纸」，支持搜索和左右切换。
+喜欢她的温柔，也可以喜欢他的笑容。把让你心动的人物视频留在桌面，一个人工作、学习，或只是待着时，也有一份陪伴的感觉。
+
+导入喜欢的 MP4，客户端自动生成九宫格预览。点击「设为壁纸」，人物画面便留在桌面图标后方。本机视频与已安装主题统一收在「我的壁纸」，支持搜索和左右切换。
 
 | 本机使用 | 播放控制 | 分享社区 |
 | --- | --- | --- |

diff --git a/THIRD_PARTY_NOTICES.md b/THIRD_PARTY_NOTICES.md
@@ -11,3 +11,7 @@ SofaMate uses the projects below. Their authors retain their respective rights a
 | [Microsoft Edge WebView2](https://developer.microsoft.com/microsoft-edge/webview2/) | System-provided renderer | Microsoft terms; runtime not bundled |
 
 Dependency versions are recorded in `Cargo.lock` and `package-lock.json`; collected copyright and license texts are in `THIRD_PARTY_LICENSES.txt`. Development tools and the Node.js market server are not included in the desktop ZIP. This notice does not assign a license to SofaMate source or demonstration artwork.
+
+## Website identity marks
+
+The GitHub Invertocat is an unmodified official asset from [GitHub Brand Toolkit](https://brand.github.com/foundations/logo). The Google G is an unmodified official asset from [Google Identity](https://developers.google.com/identity/branding-guidelines). These marks identify the corresponding sign-in integrations and remain the property of their respective owners.
